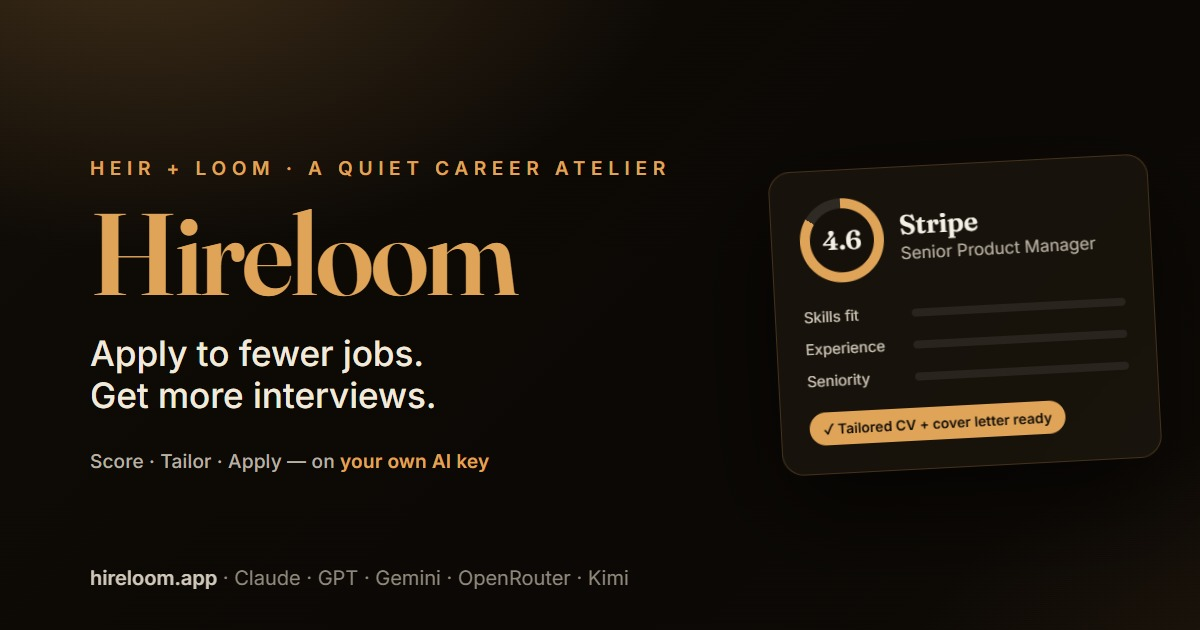
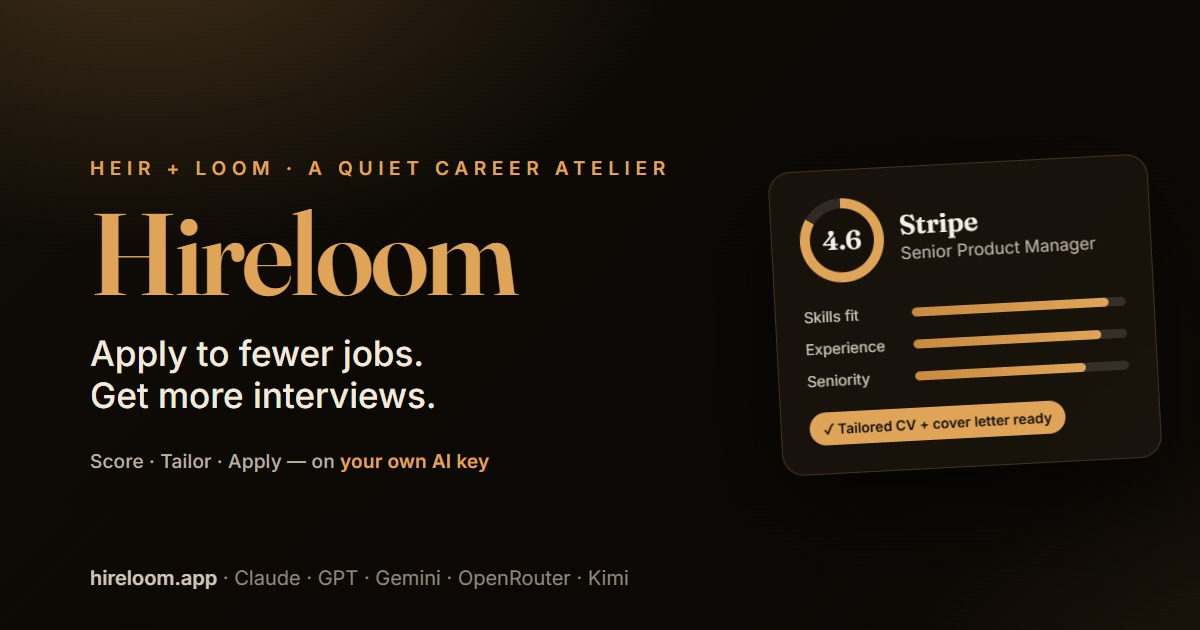
fix(brand): render og-image skill bars (inline-span width bug) + gradient fills

Changed region(s): [[0.74, 0.4524, 0.925, 0.6032]]

diff --git a/web/public/og-image.html b/web/public/og-image.html
@@ -47,8 +47,8 @@
     .bars { margin-top: 24px; display: flex; flex-direction: column; gap: 13px; }
     .bar { display: flex; align-items: center; gap: 12px; font-size: 15px; color: #cfc7b8; }
     .bar .lbl { width: 96px; }
-    .track { flex: 1; height: 8px; border-radius: 99px; background: rgba(255,255,255,0.08); overflow: hidden; }
-    .fill { height: 100%; border-radius: 99px; background: #e0a458; }
+    .track { display: block; flex: 1; height: 9px; border-radius: 99px; background: rgba(255,255,255,0.12); overflow: hidden; }
+    .fill { display: block; height: 100%; border-radius: 99px; background: linear-gradient(90deg, #c98a3f, #e0a458); }
     .chip { margin-top: 22px; display: inline-flex; align-items: center; gap: 8px; font-size: 14px; font-weight: 600;
       color: #0e0b07; background: #e0a458; padding: 7px 14px; border-radius: 99px; }
     .foot { position: absolute; bottom: 40px; left: 90px; font-size: 20px; color: #8f887b; }
